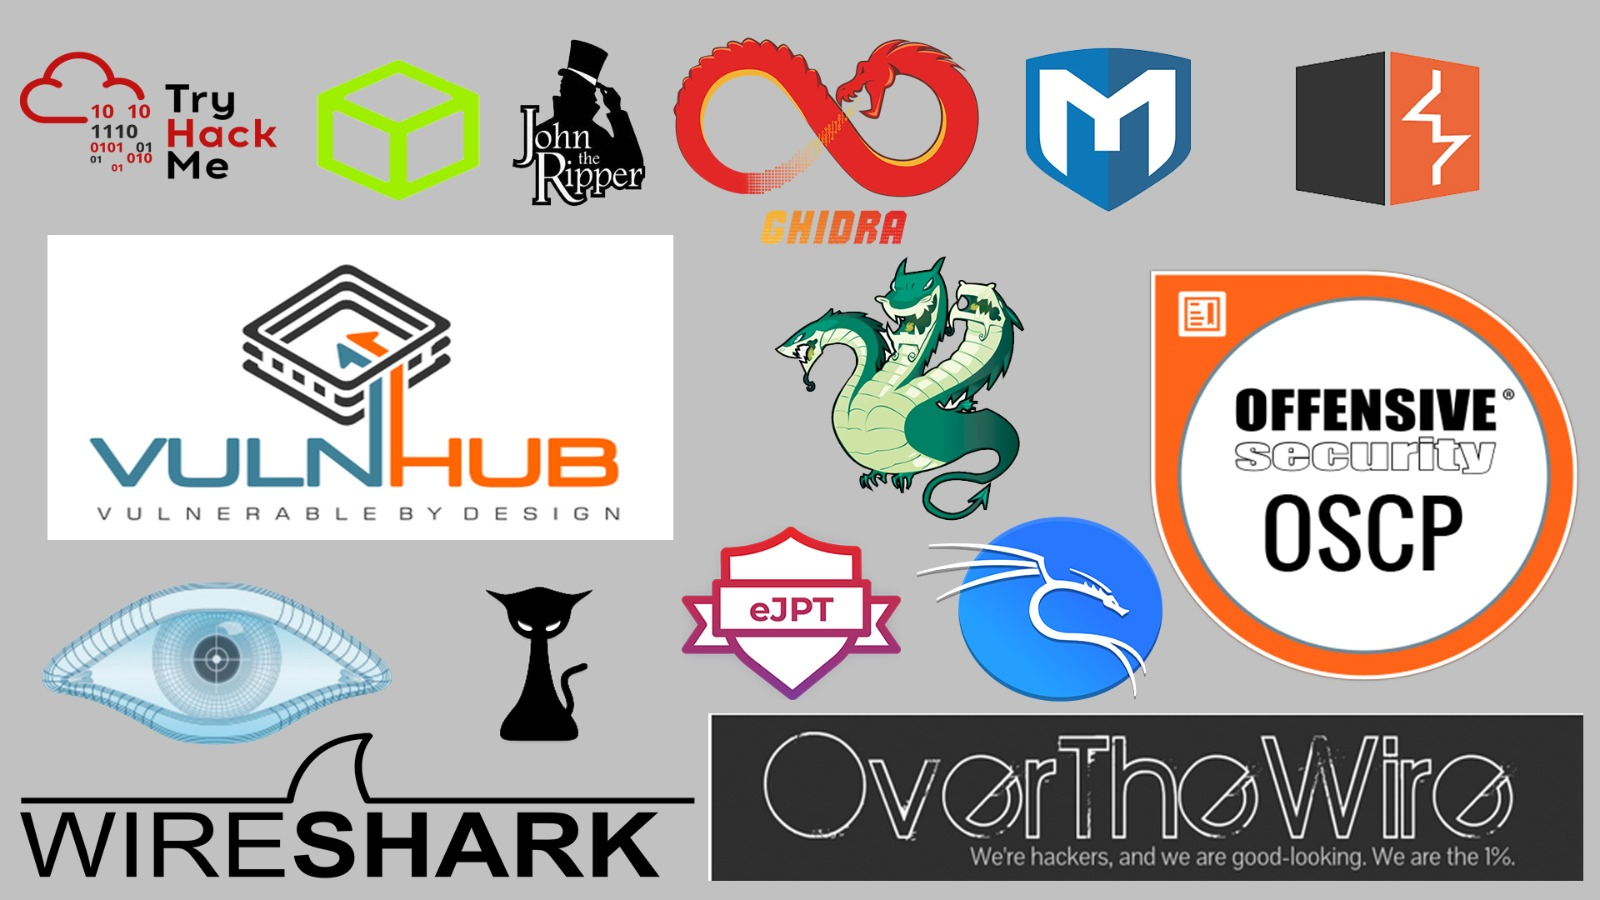
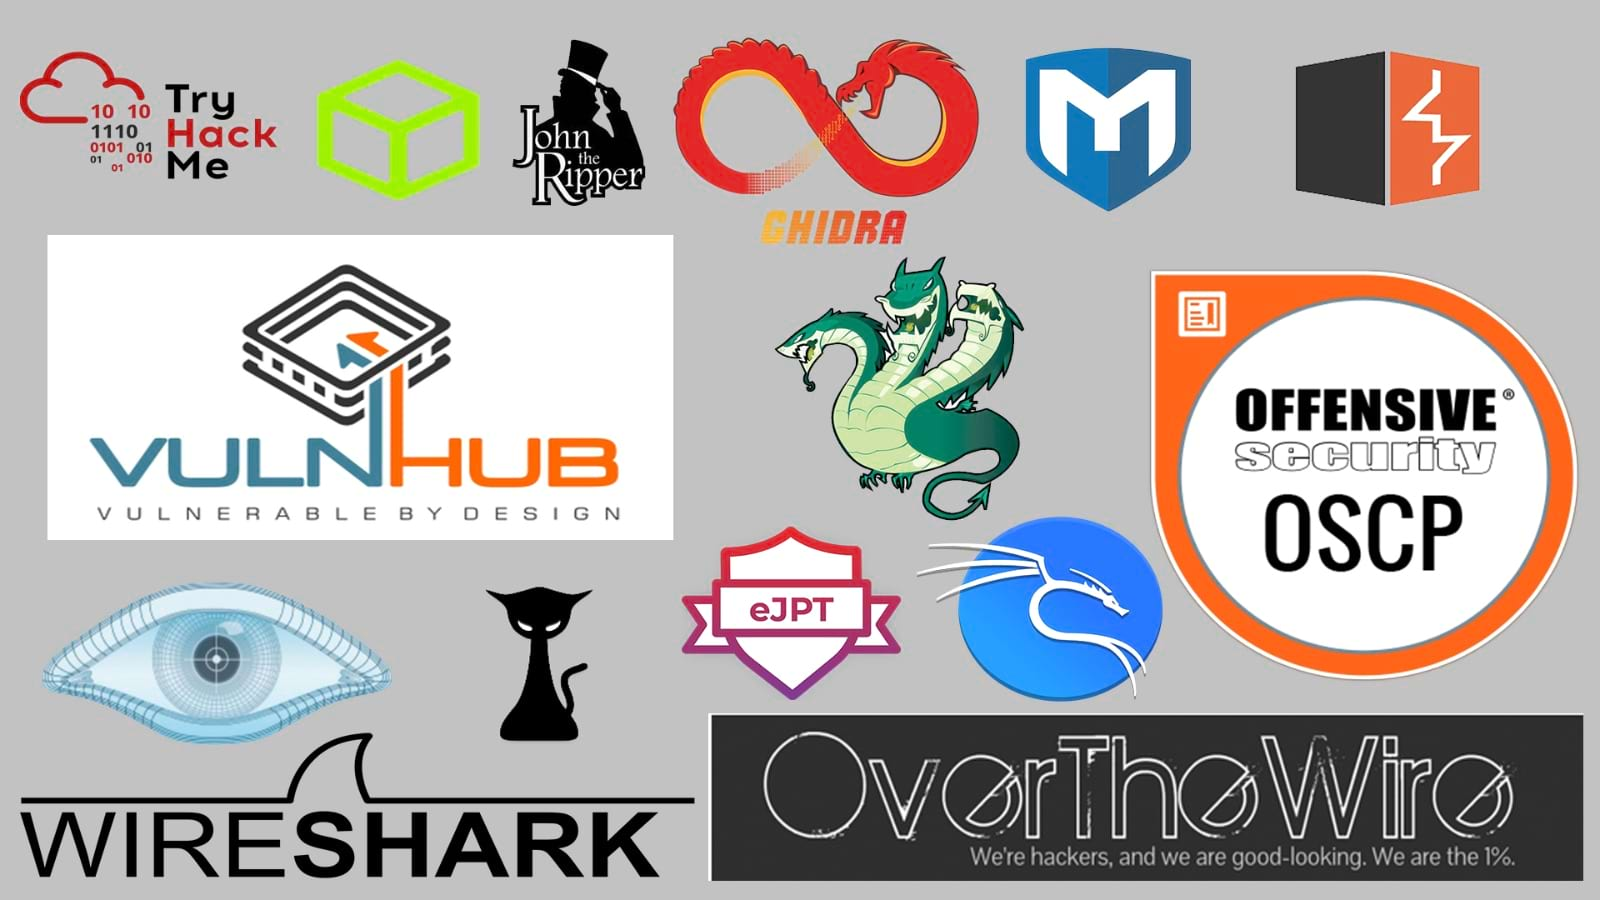
img compress

diff --git a/index.html b/index.html
@@ -413,7 +413,7 @@
               <p class="text-light font-weight-500 text-left mb-2">Linux<span class="float-right">75%</span></p>
               <div class="progress progress-sm bg-dark-2 mb-4">
                 <div class="progress-bar" role="progressbar" style="width: 75%" aria-valuenow="75" aria-valuemin="0"
-                  aria-valuemax="100"></div>
+                  aria-valuemax="100" ></div>
               </div>
               <p class="text-light font-weight-500 text-left mb-2">Networking<span class="float-right">85%</span></p>
               <div class="progress progress-sm bg-dark-2 mb-4">
@@ -438,7 +438,7 @@
                 <div class="progress-bar" role="progressbar" style="width: 65%" aria-valuenow="65" aria-valuemin="0"
                   aria-valuemax="100"></div>
               </div>
-              <p class="text-light font-weight-500 text-left mb-2">Python<span class="float-right">70%</span></p>
+              <p class="text-light font-weight-500 text-left mb-2" name>Python<span class="float-right">70%</span></p>
               <div class="progress progress-sm bg-dark-2 mb-4">
                 <div class="progress-bar" role="progressbar" style="width: 70%" aria-valuenow="70" aria-valuemin="0"
                   aria-valuemax="100"></div>
